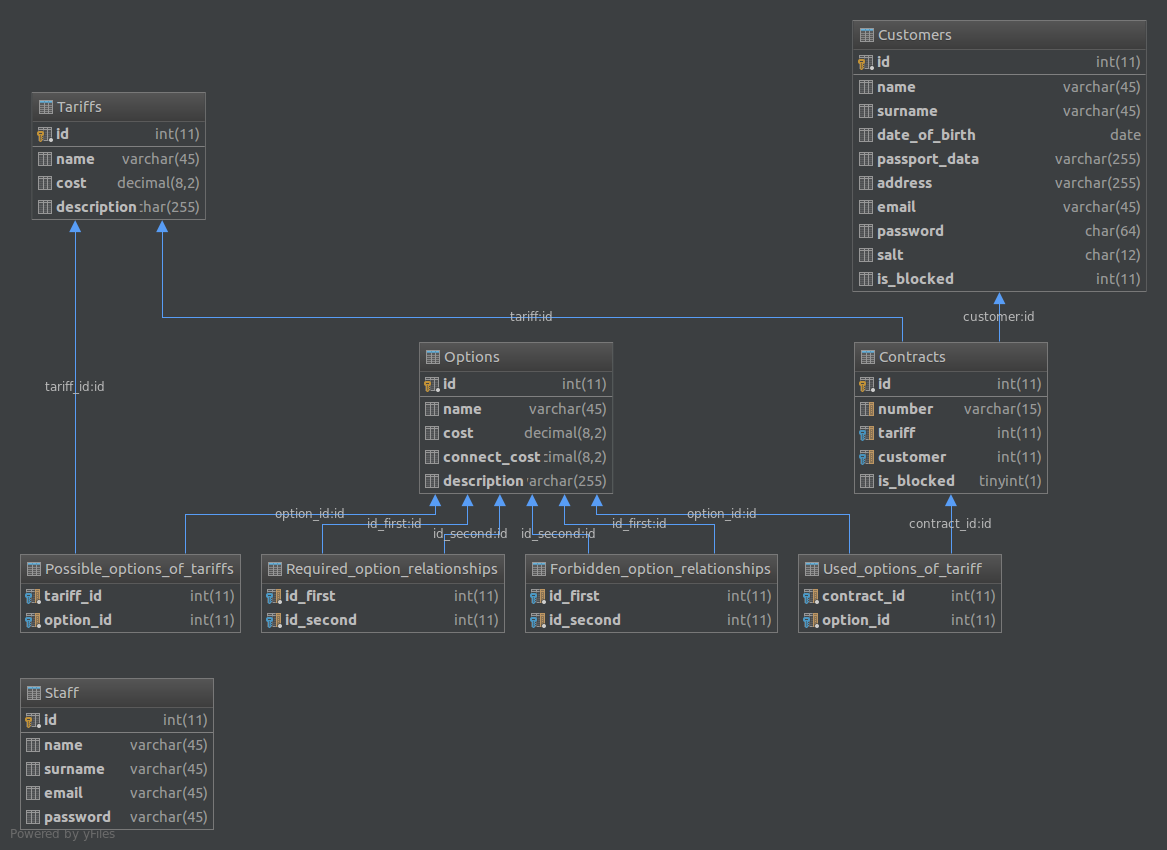
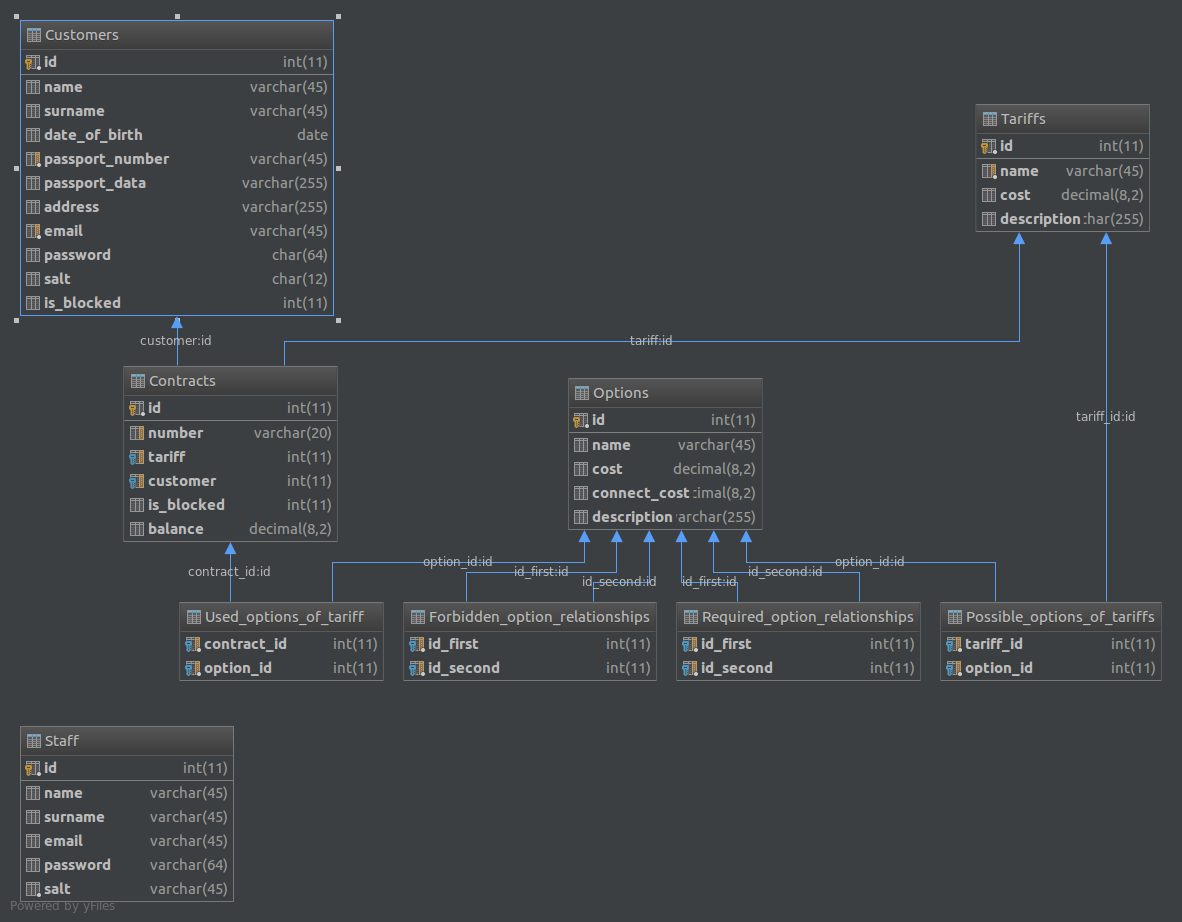
Update database script and er diagram

diff --git a/src/main/webapp/resources/js/options.js b/src/main/webapp/resources/js/options.js
@@ -343,7 +343,7 @@ function create_accordion_node(res) {
     $node.find(".panel-body").append(filling[0]);
     $node.find(".panel-body").append(filling[1]);
     $node.find(".panel-body").append(filling[2]);
-    $node.find(".panel-title .pull-right").append(create_panel_menu());
+    $node.find(".panel-title .pull-right").append(create_panel_menu(data));
     $('#accordion').prepend($node);
 }
 
